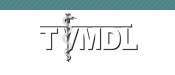
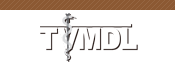
changed TVMDL colors

Changed region(s): [[0.0, 0.0, 1.0, 0.1333]]

diff --git a/style.css b/style.css
@@ -161,7 +161,7 @@ ul {
 }
 #wrapper {
 	margin: 0 auto;	
-	max-width: 955px;	
+	max-width: 1024px;	
 }
 
 /* Text elements */
@@ -303,14 +303,14 @@ body.collegeonly a:hover {
 }
 
 body.tvmdlonly a{
-	color:#477f80;
-	border-color: #477f80;
+	color:#8C5933;
+	border-color: #8C5933;
 }
 
 body.tvmdlonly a:active,
 body.tvmdlonly a:hover {
-	color: #2c4e4f;
-	border-color: #2c4e4f;	
+	color: #674125;
+	border-color: #674125;	
 }
 
 body.extensiononly a {
@@ -596,6 +596,7 @@ body.collegeonly #drop-section-nav #drop-nav ul li a.college-explore-link:hover 
 .tvmdlonly #drop-section-nav #drop-nav ul li a[href*='tvmdl'] {
 	background-image: url('images/tvmdl-logo.png');
 	width: 90px;
+	margin-bottom: -4px;
 }
 
 .researchonly #drop-section-nav #drop-nav ul li a[href*='research'] {
@@ -869,23 +870,23 @@ body.collegeonly #drop-section-nav #drop-nav ul li a.college-explore-link:hover 
 
 
 body.tvmdlonly span.gigpress-sidebar-status a, body.tvmdlonly .btn a, body.tvmdlonly button.btn, body.tvmdlonly a.gigpress-tickets-link {	
-	border: 1px solid #477f80;
+	border: 1px solid #8c5933;
 	color: #fff;
-	background: #477f80;
-	background: -webkit-gradient(linear, 0% 0%, 0% 100%, from(#59a0a1), to(#477f80));
-	background: -moz-linear-gradient(top, #59a0a1, #477f80);
+	background: #8c5933;
+	background: -webkit-gradient(linear, 0% 0%, 0% 100%, from(#8c5933), to(#794d2c));
+	background: -moz-linear-gradient(top, #8c5933, #794d2c);
 }
 
 body.tvmdlonly span.gigpress-sidebar-status a, body.tvmdlonly .btn a:hover, body.tvmdlonly button.btn:hover, body.tvmdlonly a.gigpress-tickets-link:hover {	
-	background: #59a0a1;	
-	background: -webkit-gradient(linear, 0% 0%, 0% 100%, from(#477f80), to(#59a0a1));
-	background: -moz-linear-gradient(top, #477f80, #59a0a1);		
+	background: #794d2c;	
+	background: -webkit-gradient(linear, 0% 0%, 0% 100%, from(#794d2c), to(#8c5933));
+	background: -moz-linear-gradient(top, #794d2c, #8c5933);		
 }
 
 body.tvmdlonly span.gigpress-sidebar-status a, body.tvmdlonly .btn a:active, body.tvmdlonly button.btn:active, body.tvmdlonly a.gigpress-tickets-link:active {
-	background: #3e6f70;	
-	background: -webkit-gradient(linear, 0% 0%, 0% 100%, from(#477f80), to(#3e6f70));
-	background: -moz-linear-gradient(top, #477f80, #3e6f70);	
+	background: #664125;	
+	background: -webkit-gradient(linear, 0% 0%, 0% 100%, from(#664125), to(#53351e));
+	background: -moz-linear-gradient(top, #664125, #53351e);	
 }
 
 body.extensiononly span.gigpress-sidebar-status a, body.extensiononly .btn a, body.extensiononly button.btn, body.extensiononly a.gigpress-tickets-link {	
@@ -938,13 +939,13 @@ body.collegeonly #drop-section-nav {
 }
 
 body.tvmdlonly #drop-section-nav {
-	background-color: #477f80;
-	border-bottom: 1px solid #477f80;	
+	background-color: #8c5933;
+	border-bottom: 1px solid #8c5933;	
 }
 
 body.extensiononly #drop-section-nav {
-	background-color: #004c6b;
-	border-bottom: 1px solid #004c6b;	
+	background-color: #004C6B;
+	border-bottom: 1px solid #004C6B;	
 }
 
 body.researchonly #drop-section-nav {
@@ -1481,7 +1482,7 @@ body.home.extensiononly #home-middle .home-middle-features a .date {
 }
 
 body.home.tvmdlonly #home-middle .home-middle-features a .date {
-	background: #477f80;
+	background: #8c5933;
 	color: #fff;	
 }
 
@@ -1611,7 +1612,6 @@ body.home .home-middle-1 {
 }
 
 #breadcrumbs {
-	font-size: 1.6em;
 	margin-bottom: 1.6em;
 	display: block;
 	width: 100%;
@@ -1892,6 +1892,10 @@ a.test-listing-link:hover {
 
 /* Aside
 -------------------------------------------------------------- */
+
+#aside {
+	clear: both;
+}
 
 #aside img.left {
 	float: left;
@@ -2398,6 +2402,14 @@ body.home.college #home-middle .agrilifetoday ul li span.rss-date {
 	display: block;	
 }
 
+.tagcloud a {
+	line-height: 1.625em; /* 26px / 16px */
+	border: none;
+	font-family: verdana, clean, sans-serif;
+}
+.tagcloud a:hover {
+	text-decoration: underline;
+}
 /* Events page
 -------------------------------------------------------------- */
 
@@ -3026,7 +3038,6 @@ img#wpstats {
 	#wrap, #container {
 		width: 100%;	
 	}
-	
 	#footer {
 		background: #fff url(images/gradient.png) repeat-x left top;
 	}
@@ -3063,6 +3074,10 @@ img#wpstats {
 	#footer .wrap ul li a {
 		display: block;
 		padding: 4px 0;	
+	}
+	
+	#footer .wrap ul li a:hover {
+		text-decoration: underline;
 	}
 
 	#footer .wrap .contact ul li {
@@ -3250,14 +3265,14 @@ img#wpstats {
 	}
 
 	body.tvmdlonly #access ul.menu a {
-		color:#477f80;
-		border-color: #477f80;
+		color:#8c5933;
+		border-color: #8c5933;
 	}
 
 	body.tvmdlonly #access ul.menu a:hover,
 	body.tvmdlonly #access ul.menu a:active {
-		color: #2c4e4f;
-		border-color: #2c4e4f;	
+		color: #674125;
+		border-color: #674125;	
 	}
 
 	body.extensiononly #access ul.menu a {
@@ -3603,7 +3618,7 @@ img#wpstats {
 	}
 	
 	#branding, #access .menu-header, .wrap, #drop-nav, .drop-section-wrap {
-		max-width: 955px;
+		max-width: 1024px;
 		margin: 0 auto;
 		position: relative;		
 	}		
@@ -3759,7 +3774,7 @@ img#wpstats {
 	.flex-container.fullwidth { margin-left: 10px;}
 	
 	#breadcrumbs {
-		width: 550px;	
+		max-width: 585px;	
 	}	
 	
 	#content {
@@ -3774,7 +3789,7 @@ img#wpstats {
 		float: left;
 	}
 	body.home.page-template-onecolumn-page-php #content {		
-		max-width: 955px;
+		max-width: 1024px;
 		float: none;
 	}	
 	.flex-container.fullwidth { margin-right: 10px;}
@@ -3832,6 +3847,7 @@ img#wpstats {
 	#aside {
 		width: 38.743455497382%; /* 370px / 955px */
 		float: right;
+		clear: none;
 	}
 
 	#aside #event-bg {
@@ -3879,7 +3895,7 @@ img#wpstats {
 	#footer .wrap h4 {
 		text-transform: uppercase;
 		letter-spacing: .1em;
-		font-size: 1em;
+		font-size: 0.875em; /* 14px / 16px */
 	}
 
 	#footer .wrap p {

diff --git a/functions.php b/functions.php
@@ -132,15 +132,15 @@ function agriflex_setup() {
           // register jquery CDN                   
           wp_deregister_script('jquery');
           wp_register_script('jquery', ("http://ajax.googleapis.com/ajax/libs/jquery/1.6/jquery.min.js"), false);         
-             wp_enqueue_script('jquery');
-    
-            // enqueue the custom jquery js
-             wp_enqueue_script('modernizr',
-                 get_bloginfo('template_directory') . '/js/modernizr-2.0.6.min.js' , array('jquery'), '2.0.6', false);
-                                  
-            // enqueue the custom jquery js
-             wp_enqueue_script('my_scripts',
-                 get_bloginfo('template_directory') . '/js/my_scripts.js', array('jquery'), '2.9.1', true);                
+          wp_enqueue_script('jquery');
+ 
+         // enqueue the custom jquery js
+          wp_enqueue_script('modernizr',
+              get_bloginfo('template_directory') . '/js/modernizr-2.0.6.min.js' , array('jquery'), '2.0.6', false);
+                               
+         // enqueue the custom jquery js
+          wp_enqueue_script('my_scripts',
+              get_bloginfo('template_directory') . '/js/my_scripts.js', array('jquery'), '2.9.1', true);                
           }             
      }   
      add_action('init', 'load_js');    
@@ -150,7 +150,6 @@ function agriflex_setup() {
      function remove_some_wp_widgets(){
        unregister_widget('WP_Widget_Calendar');
        unregister_widget('WP_Widget_Search');
-       unregister_widget('WP_Widget_Tag_Cloud');
      }
 
      add_action('widgets_init',remove_some_wp_widgets, 1);    

diff --git a/includes/widgets.php b/includes/widgets.php
@@ -105,7 +105,7 @@ class WatchReadListenWidget extends WP_Widget {
 	</ul>
 		<div id="tabs-1">
 		<?php // Watch Tab ?>
-		<object type="application/x-shockwave-flash" width="349" height="221" data="<?php echo $youtube_video;?>">
+		<object type="application/x-shockwave-flash" width="372" height="236" data="<?php echo $youtube_video;?>">
 			<param name="movie" value="<?php echo $youtube_video;?>">
 			<param name="allowFullScreen" value="true">
 			<param name="allowscriptaccess" value="always">
